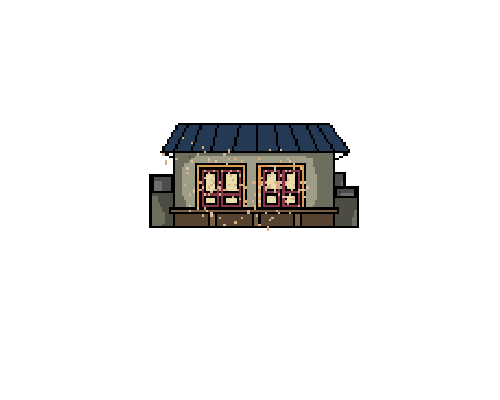
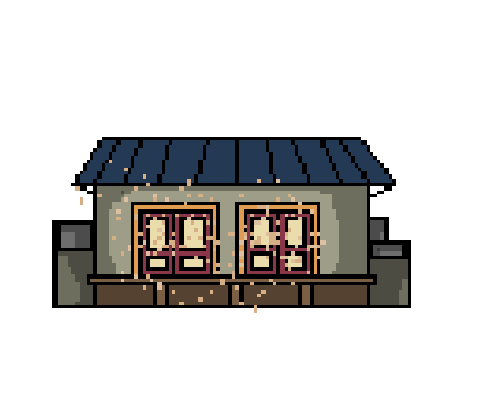
Fixed buttons

Changed region(s): [[0.09, 0.3, 0.84, 0.78]]

diff --git a/cssFiles/mapStyles.css b/cssFiles/mapStyles.css
@@ -26,26 +26,26 @@ body {
 
     h1 {
         color: #e8e8e8; 
-        text-align: center;
+        font-size: 160%;
         font-family: 'Georgia', sans-serif;
         position: absolute;
         top: 5%;
-        left: 50%;
+        left: 55%;
     }
 
     p {
-        font-size: 14px;
+        font-size: 80%;
         color: #d6d6d6; /* slightly lighter gray */
         text-align: center;
         font-family: 'Georgia', sans-serif;
         position: absolute;
         top: 13%;
-        left: 55%;
+        left: 60%;
 
     }
 
     .logo {
-        width: 80px;
+        width: 5%;
         height: auto;
         margin: 20px auto;
         border: 5px solid darkblue;
@@ -60,60 +60,33 @@ body {
     }
     
     .shop {
-        width: 10%;
+        width: 15%;
         height: auto;
         margin: 20px auto;
         padding: 0px;
         background-position: right;
         background-size: cover;
-
         position: fixed;
         top: 60%;
         left: 53%;
     }
-    .shopButton {
-        font-size: 20px;
-        border: 2px solid #fff;
-        border-radius: 20px;
-        color: #FFFFFF;
-        text-decoration: none;
-        margin-top: 20px;
-        padding: 10px;
-        transition: background-color 0.3s ease;
 
-        position: fixed;
-        top: 80%;
-        left: 55.3%;
-    }
-    .shopButton:hover {
+    .shop:hover {
     background-color: rgba(255, 255, 255, 0.5);
+    border-radius: 20px;
     color: #fad5ff;
     }
 
     .house {
-        width:20%;
+        width: 15%;
         height: auto;
         padding: 0px;
         background-size: cover;
-
         position: fixed;
-        top: 50%;
-        left: 32%;
-    }
-    /* .houseButton {
-        font-size: 20px;
-        border: 2px solid #fff;
-        border-radius: 20px;
-        color: #FFFFFF;
-        text-decoration: none;
-        margin-top: 20px;
-        padding: 10px;
-        transition: background-color 0.3s ease;
-
-        position: absolute;
         top: 43%;
-        left: 33.5%;
-    } */
+        left: 30%;
+    }
+
     .house:hover {
     background-color: rgba(255, 255, 255, 0.5);
     border-radius: 20px;
@@ -138,31 +111,19 @@ body {
     }
 
     .carDealer{
-        width: 15%;
+        width: 50%;
         height: auto;
         padding: 0px;
         background-size: cover;
 
         position: absolute;
-        top: 62%;
-        left: 38%;
+        top: 65%;
+        left: 25%;
     }
-    .carDealerButton {
-        font-size: 20px;
-        border: 2px solid #fff;
-        border-radius: 20px;
-        color: #ffffff;
-        text-decoration: none;
-        margin-top: 20px;
-        padding: 10px;
-        transition: background-color 0.3s ease;
 
-        position: absolute;
-        top: 82%;
-        left: 40%;
-    }
-    .carDealerButton:hover {
+    .carDealer:hover {
     background-color: rgba(255, 255, 255, 0.5);
+    border-radius: 20px;
     color: #fad5ff;
     }
 

diff --git a/Map.html b/Map.html
@@ -6,13 +6,6 @@
 </head>
 
 <body>
-
-    <img src="Pictures/BigDawGS-logos.jpeg" onclick="redirectToPage('index.html')"
-        alt="Cartoon husky dog with a banner saying 'BigDawgs' in its mouth" class=logo>
-
-    <h1>Welcome to the map!</h1>
-    <p>Choose where you'd like to go next!</p>
-
     <div class="realEstate">
         <a href="RealEstate.html" class="realEstate"> <img src="Pictures/RealEstate.png"  alt="Real estate office" class="realEstate"></a>
     </div>
@@ -21,21 +14,20 @@
         <a href="Home.html" class="house"> <img src="Pictures/DawgHouse.png"  alt="Dawg house" class="house"></a>
     </div>
 
+    <div class="carDealer">
+        <a href="CarDealer.html" class="carDealer"> <img src="Pictures/CarDealer.png"  alt="Car dealership" class="carDealer"></a>
+    </div>
+
+    <div class="shop">
+        <a href="Shop.html" class="shop"> <img src="Pictures/DawgShop.png"  alt="Dawg shop" class="shop"></a>
+    </div>
 
     <div id="map">
-        <!-- <img src="Pictures/DawgShop.png" alt="Pixel art building with a sign saying 'shop' and showing a dog's face"
-            class=shop>
-        <img src="Pictures/DawgHouse.png" alt="Pixel art dog house" class=house>
-        <img src="Pictures/CarDealer.png" alt="Pixel art car dealership with red sports car outside" class=carDealer> -->
-        <!-- <img src="Pictures/RealEstate.png"  onclick="redirectToPage('RealEstate.html')"  alt="Real estate office" class="realEstate"> -->
+        <h1>Welcome to the map!</h1>
+        <p>Choose where you'd like to go next!</p>
+        <img src="Pictures/BigDawGS-logos.jpeg" onclick="redirectToPage('index.html')"
+        alt="Cartoon husky dog with a banner saying 'BigDawgs' in its mouth" class=logo>
 
-        <div class="dawg-buttons">
-            <a href="Shop.html" class="shopButton">Shop</a>
-            <a href="Home.html" class="houseButton">Inventory</a>
-            <a href="RealEstate.html" class="realEstateButton">Real Estate</a>
-            <a href="CarDealer.html" class="carDealerButton">Car Dealership</a>
-            <a href="index.html" class="scheduleButton">Go to Your Schedule!</a>
-        </div>
     </div>
     <script src="javaScriptFiles/Map.js"></script>
 
